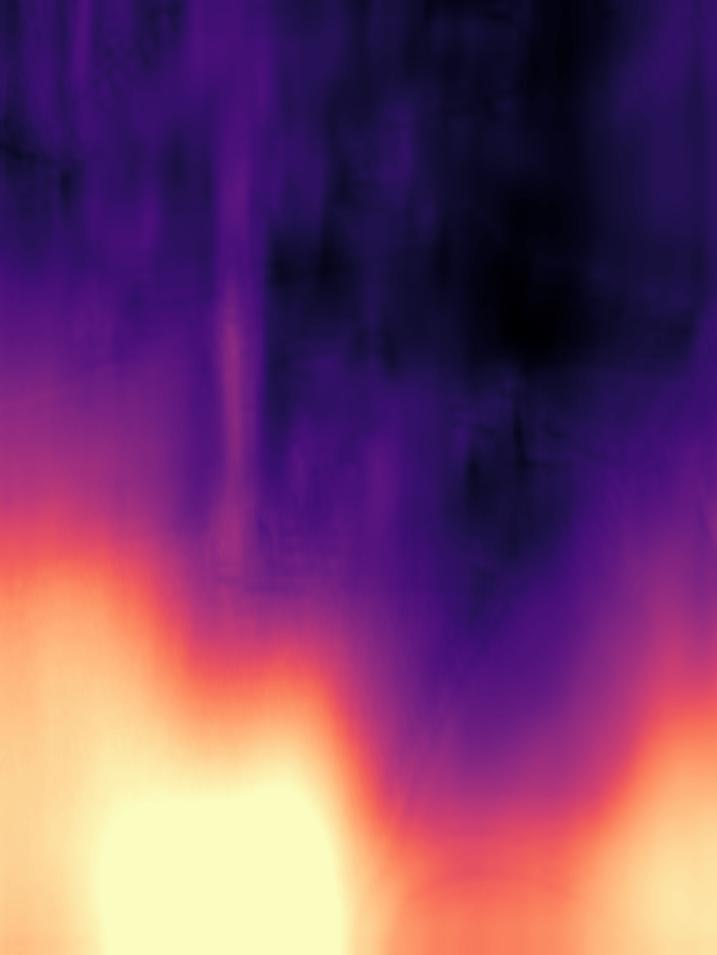
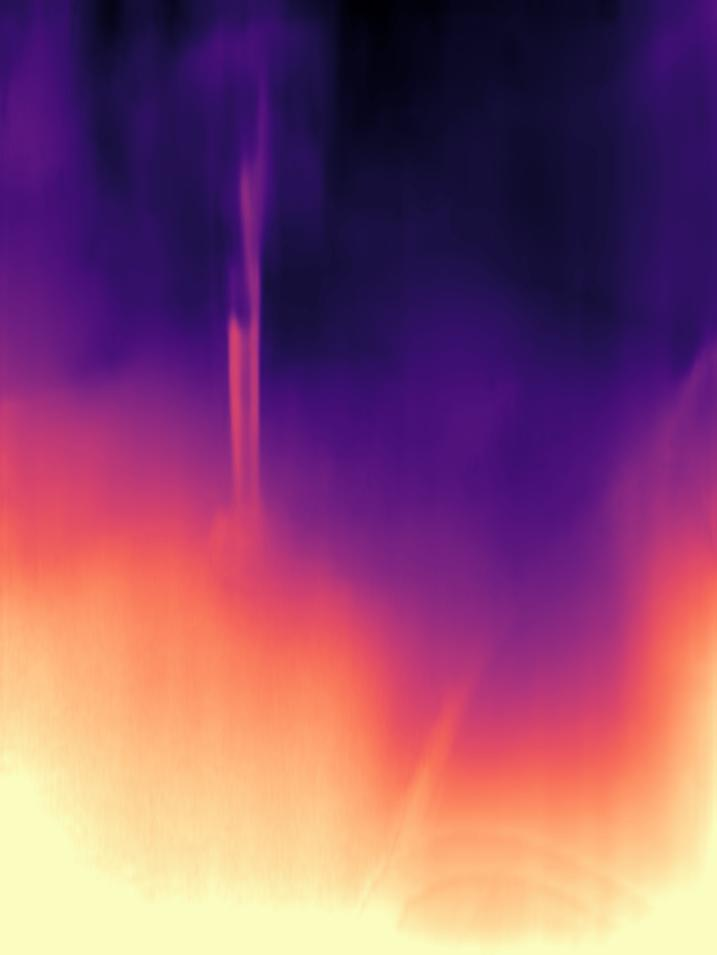
todo use separate resnets

diff --git a/trainer_new.py b/trainer_new.py
@@ -38,6 +38,7 @@ class NewTrainer:
         self.num_input_frames = len(self.opt.frame_ids)
         self.num_pose_frames = 2 if self.opt.pose_model_input == "pairs" else self.num_input_frames
 
+        # depth
         self.models["encoder"] = networks.ResnetEncoder(
         self.opt.num_layers, self.opt.weights_init == "pretrained")
         self.models["encoder"].to(self.device)
@@ -48,18 +49,39 @@ class NewTrainer:
         self.models["depth"].to(self.device)
         self.parameters_to_train += list(self.models["depth"].parameters())
         
-        # we use same resnet as depth for flow and pose
-        self.models["pose"] = networks.PoseDecoder(
-            self.models["encoder"].num_ch_enc, self.num_pose_frames, self.num_pose_frames)
 
+        # flow
+        self.models["flow_encoder"] = networks.ResnetEncoder(
+            self.opt.num_layers,
+            self.opt.weights_init == "pretrained",
+            num_input_images=self.num_pose_frames)
         self.models["flow"] = networks.FlowDecoder(
-            self.models["encoder"].num_ch_enc, self.opt.scales, self.num_pose_frames, self.num_pose_frames)
+            self.models["flow_encoder"].num_ch_enc, 
+            self.opt.scales, 
+            self.num_pose_frames)
 
-        self.models["pose"].to(self.device)
-        self.parameters_to_train += list(self.models["pose"].parameters())
+        self.models["flow_encoder"].to(self.device)
+        self.parameters_to_train += list(self.models["flow_encoder"].parameters())
 
         self.models["flow"].to(self.device)
         self.parameters_to_train += list(self.models["flow"].parameters())
+
+        # pose
+        self.models["pose_encoder"] = networks.ResnetEncoder(
+                self.opt.num_layers,
+                self.opt.weights_init == "pretrained",
+                num_input_images=self.num_pose_frames)
+
+        self.models["pose_encoder"].to(self.device)
+        self.parameters_to_train += list(self.models["pose_encoder"].parameters())
+
+        self.models["pose"] = networks.PoseDecoder(
+            self.models["pose_encoder"].num_ch_enc,
+            num_input_features=1,
+            num_frames_to_predict_for=2)
+
+        self.models["pose"].to(self.device)
+        self.parameters_to_train += list(self.models["pose"].parameters())
 
         # separate resnet for pose
         # self.models["pose_encoder"] = networks.ResnetEncoder(

diff --git a/options.py b/options.py
@@ -24,7 +24,7 @@ class MonodepthOptions:
         self.parser.add_argument("--log_dir",
                                  type=str,
                                  help="log directory",
-                                 default= "/projectnb/cs523aw/students/cyao030/tmp")
+                                 default= "/projectnb/cs523aw/projects/kittidataset/tmp")
 
         # TRAINING options
         self.parser.add_argument("--model_name",
@@ -156,7 +156,7 @@ class MonodepthOptions:
         self.parser.add_argument("--log_frequency",
                                  type=int,
                                  help="number of batches between each tensorboard log",
-                                 default=10)
+                                 default=250)
         self.parser.add_argument("--save_frequency",
                                  type=int,
                                  help="number of epochs between each save",

diff --git a/evaluate_depth.py b/evaluate_depth.py
@@ -82,7 +82,7 @@ def evaluate(opt):
 
         dataset = datasets.KITTIRAWDataset(opt.data_path, filenames,
                                            encoder_dict['height'], encoder_dict['width'],
-                                           [0], 4, is_train=False)
+                                           [0], 4, is_train=False, img_ext='.png')
         dataloader = DataLoader(dataset, 16, shuffle=False, num_workers=opt.num_workers,
                                 pin_memory=True, drop_last=False)
 
@@ -163,7 +163,7 @@ def evaluate(opt):
         quit()
 
     gt_path = os.path.join(splits_dir, opt.eval_split, "gt_depths.npz")
-    gt_depths = np.load(gt_path, fix_imports=True, encoding='latin1')["data"]
+    gt_depths = np.load(gt_path, fix_imports=True, encoding='latin1',allow_pickle=True)["data"]
 
     print("-> Evaluating")
 

diff --git a/export_gt_depth.py b/export_gt_depth.py
@@ -58,7 +58,7 @@ def export_gt_depths_kitti():
 
     print("Saving to {}".format(opt.split))
 
-    np.savez_compressed(output_path, data=np.array(gt_depths))
+    np.savez_compressed(output_path, data=np.array(gt_depths,dtype=object))
 
 
 if __name__ == "__main__":
